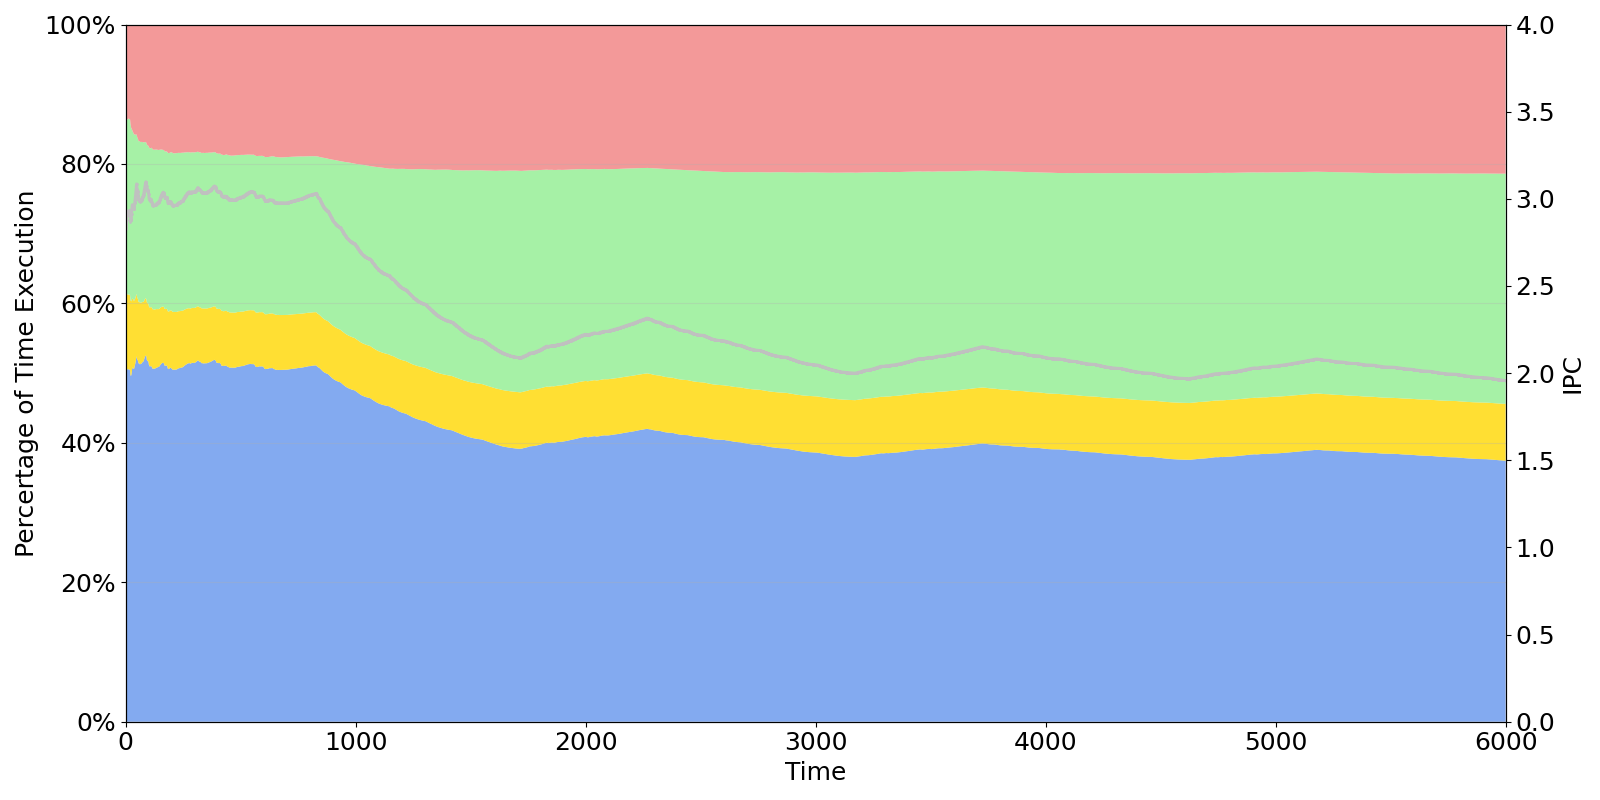
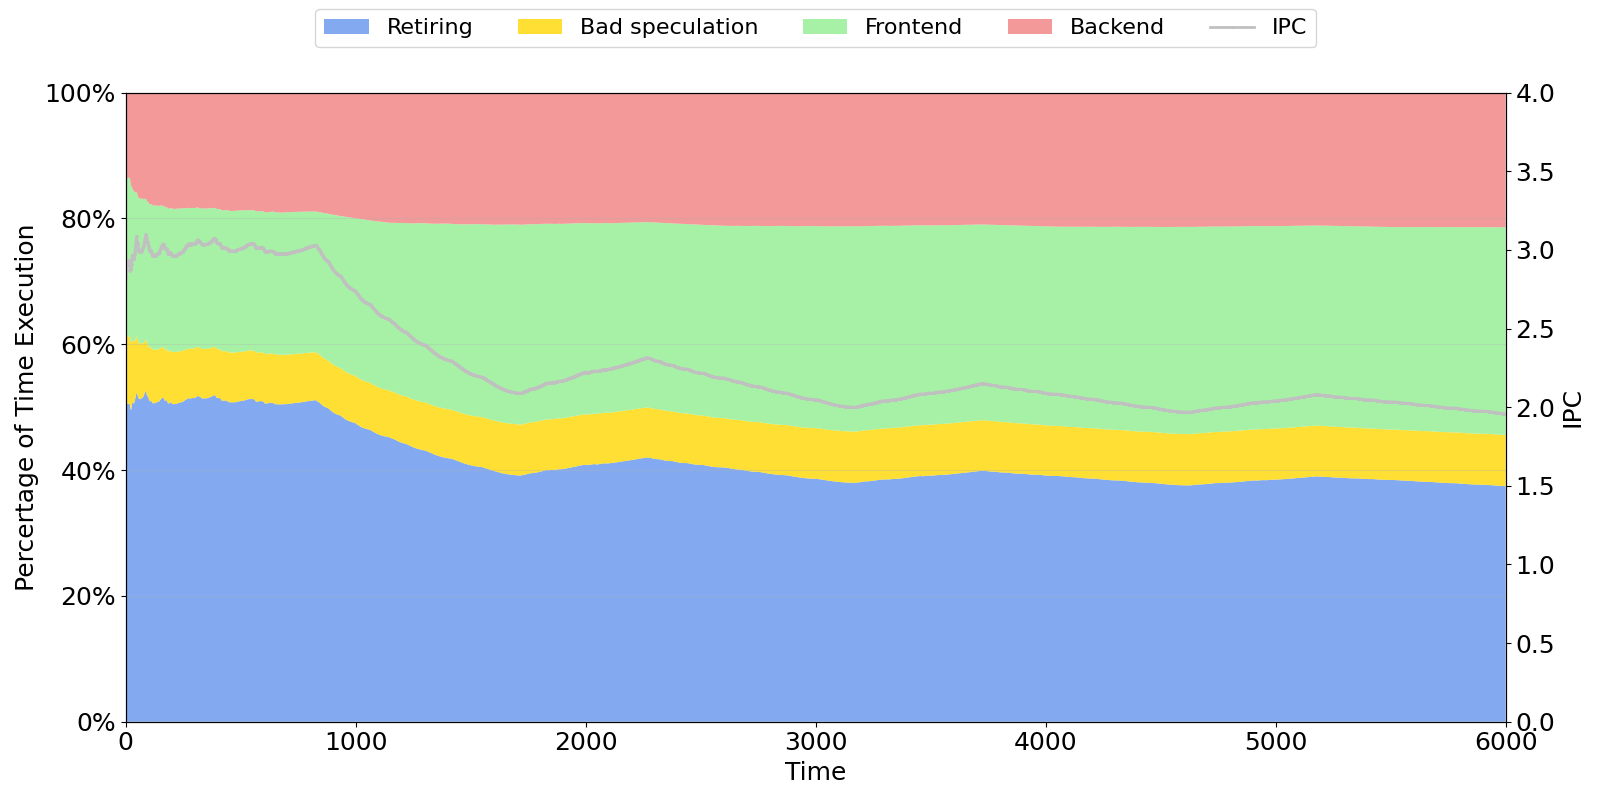
plt

diff --git a/graficar_topdown.py b/graficar_topdown.py
@@ -95,7 +95,7 @@ def main():
                 lines2, labels2 = ax2.get_legend_handles_labels()
 
                 plt.subplots_adjust(top=0.85)
-                fig.legend(lines + lines2, labels + labels2, 
+                plt.legend(lines + lines2, labels + labels2, 
                           loc='upper center', bbox_to_anchor=(0.5, 1.15), 
                           fontsize=16, ncol=5)
                 
